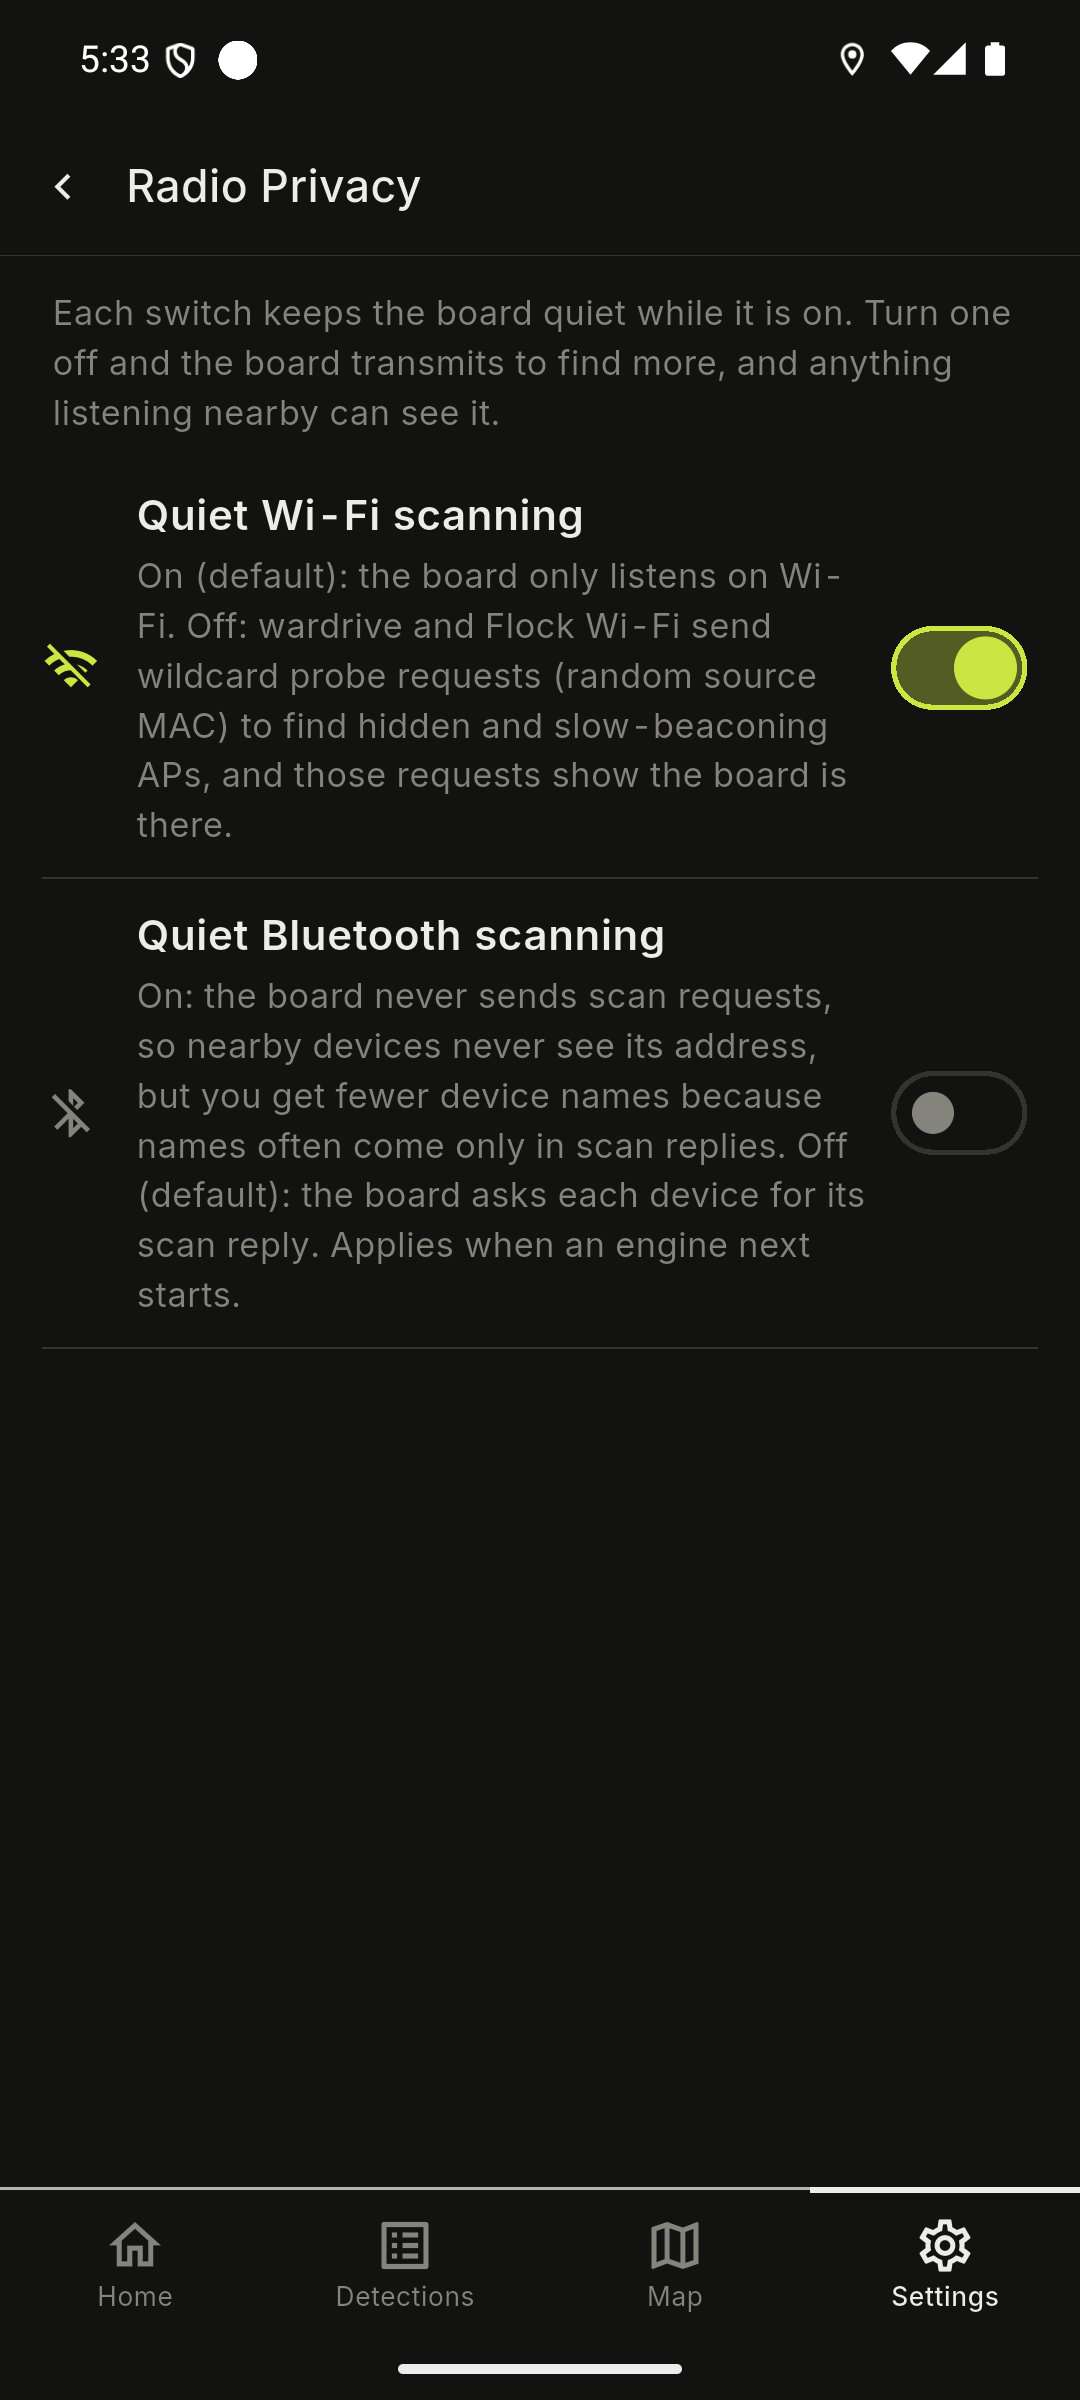
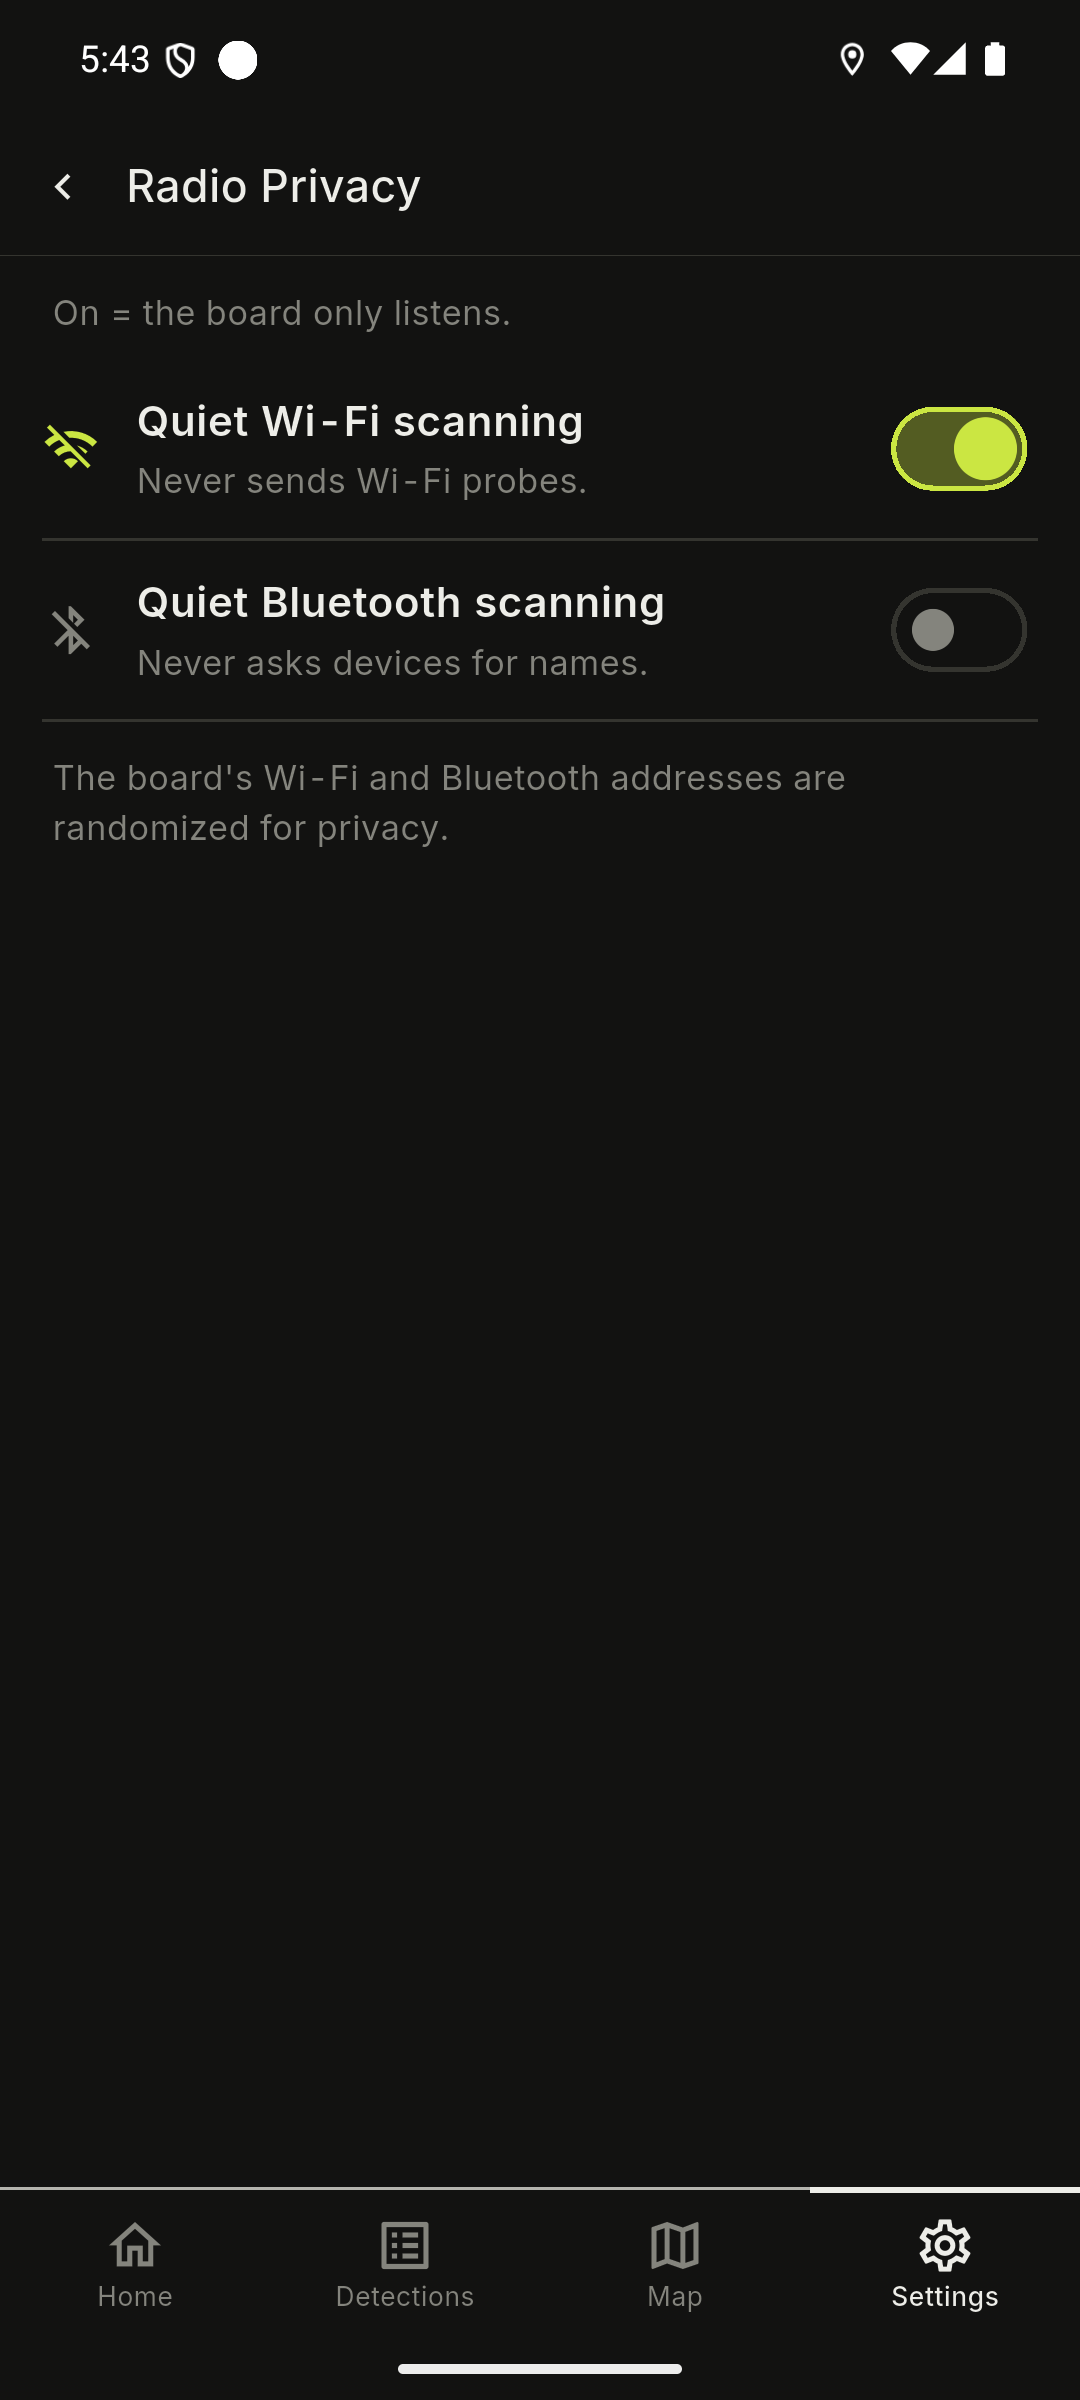
app: note randomized board addresses

diff --git a/companion/lib/features/config/device_config.dart b/companion/lib/features/config/device_config.dart
@@ -1014,6 +1014,11 @@ class _DeviceConfigScreenState extends ConsumerState<DeviceConfigScreen> {
               _writeHardwareConfig();
             },
           ),
+          Padding(
+            padding: const EdgeInsets.fromLTRB(4, 12, 4, 8),
+            child: Text('The board\'s Wi-Fi and Bluetooth addresses are randomized for privacy.',
+                style: TextStyle(color: AppTheme.of(context).textDim, fontSize: 13)),
+          ),
         ],
 
         if (part == _HwPart.offline) ...[
